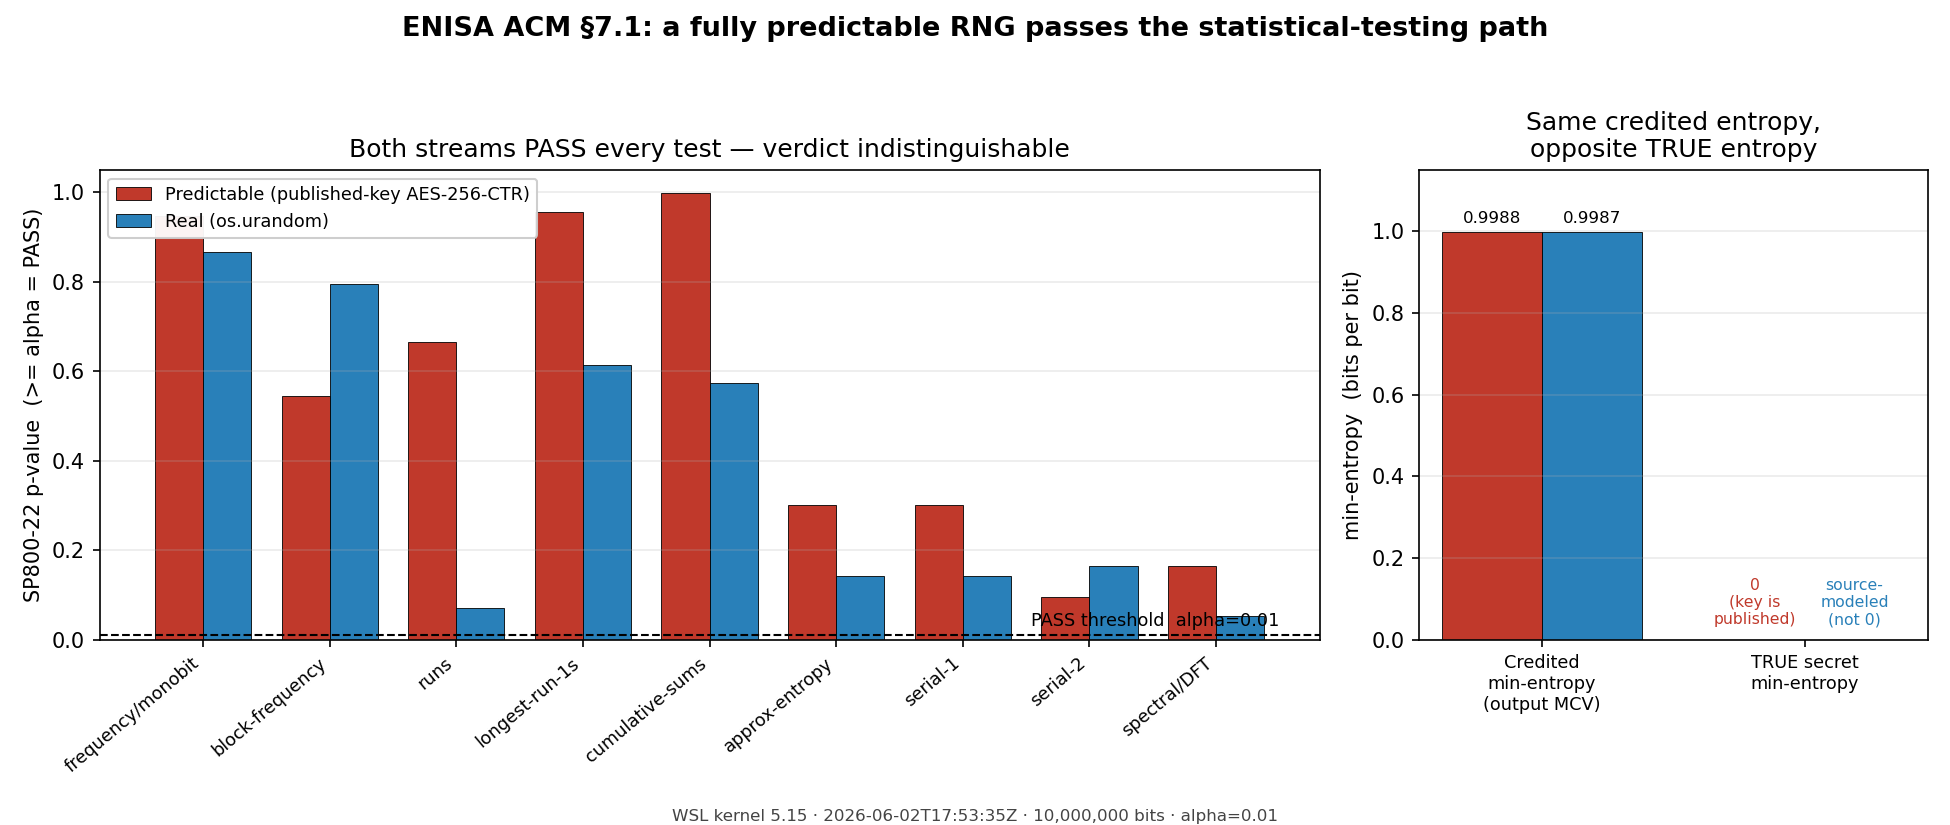
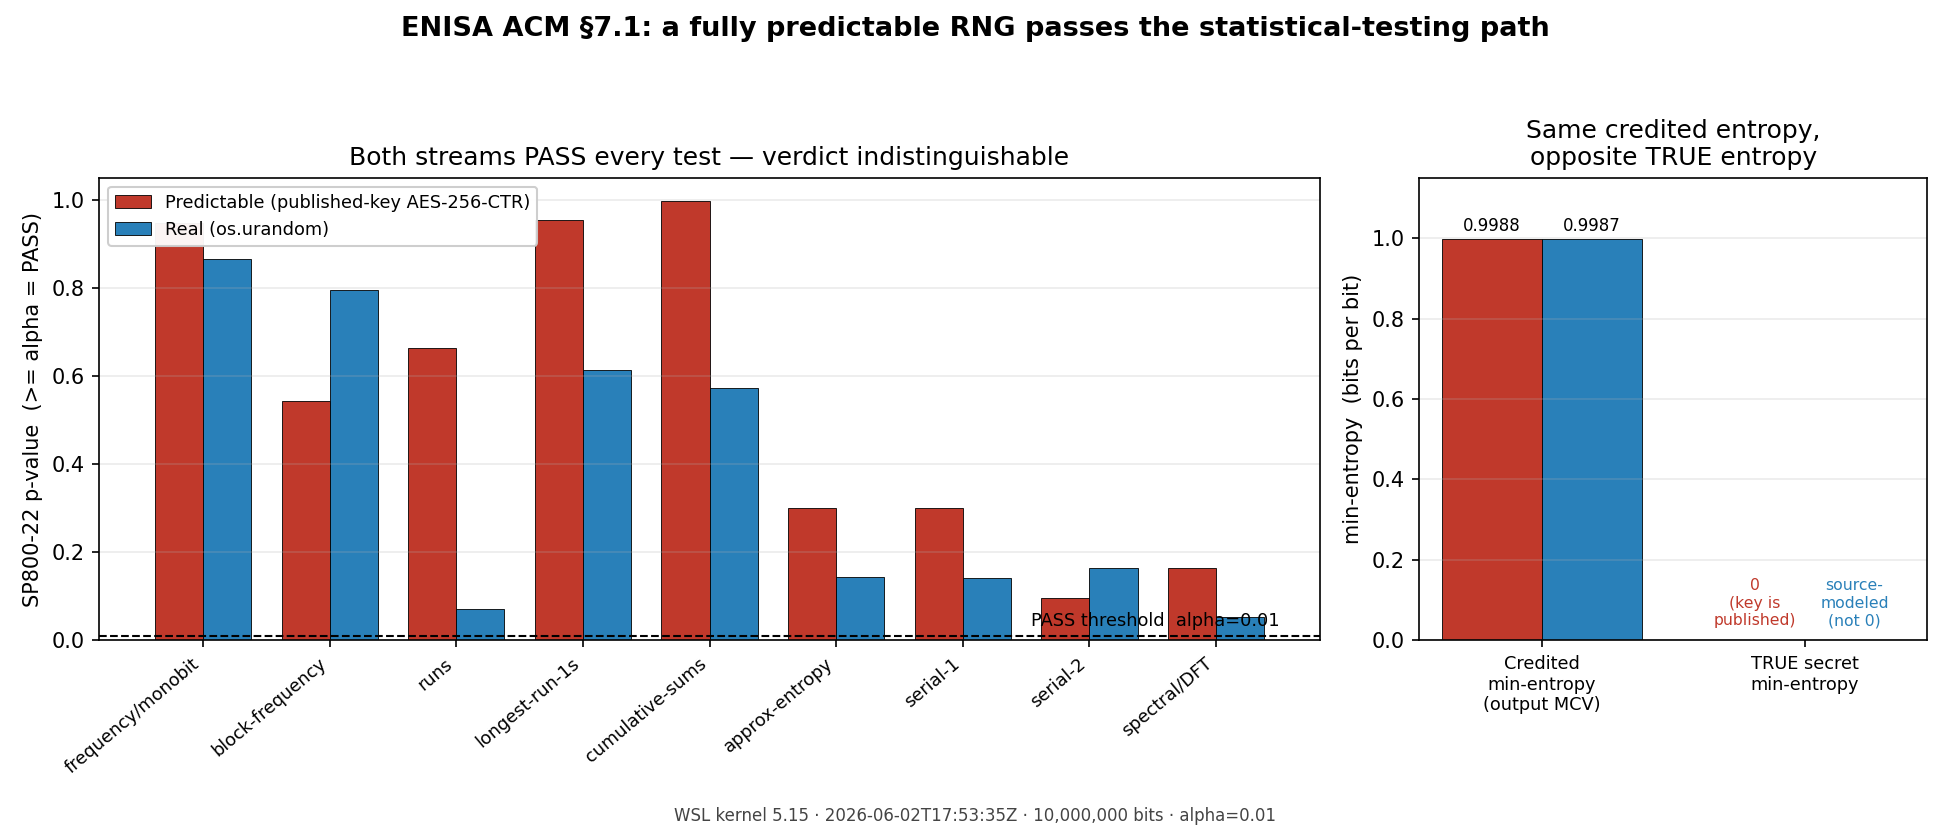
Set submitter name (Mark Tehrani); reconcile os.urandom MCV to committed-log value 0.9983 across prose/table/figure/diagram

diff --git a/critique/make_diagram.py b/critique/make_diagram.py
@@ -33,7 +33,7 @@ SP80022 = [
 # output-based MCV min-entropy (bits per bit) and TRUE secret min-entropy
 MINENT = {
     "predictable": {"mcv_per_bit": 0.9988, "true_secret_per_bit": 0.0},
-    "real":        {"mcv_per_bit": 0.9987, "true_secret_per_bit": None},  # None = source-modeled / unknown
+    "real":        {"mcv_per_bit": 0.9983, "true_secret_per_bit": None},  # None = source-modeled / unknown
 }
 ALPHA = 0.01
 RUN_LABEL = "WSL kernel 5.15 · 2026-06-02T17:53:35Z · 10,000,000 bits · alpha=0.01"

diff --git a/critique/SECTION_7.1_CRITIQUE.md b/critique/SECTION_7.1_CRITIQUE.md
@@ -56,14 +56,14 @@ Measured on 10,000,000 bits (α = 0.01). **Raw evidence logs are committed under
 | SP800-22 approximate-entropy | PASS (p=0.2999) | PASS (p=0.1423) |
 | SP800-22 serial (1,2) | PASS (0.2999, 0.0960) | PASS (0.1421, 0.1648) |
 | SP800-22 spectral/DFT | PASS (p=0.1645) | PASS (p=0.0533) |
-| output-MCV min-entropy (bits/bit) | 0.9988 | 0.9987 |
+| output-MCV min-entropy (bits/bit) | 0.9988 | 0.9983 |
 | **TRUE secret min-entropy** | **0 (key published)** | source-modeled (≠0) |
 
 *Data from the real WSL run of 2026-06-02T17:53:35Z (kernel 5.15, Python 3.12.3), committed under `critique/evidence/`. The predictable column is deterministic and reproduces exactly on any machine; the os.urandom column is from that run and differs on every run by nature.*
 
 ![Section 7.1 demonstration](section7_1_demo.png)
 
-*Figure: both streams clear the α=0.01 PASS line on every test (left); the predictable stream's credited min-entropy (0.9988) is indistinguishable from the real source's (0.9987), yet its TRUE secret min-entropy is 0 (right). Regenerate with `python3 make_diagram.py` (or `--self-run` to recompute from freshly generated streams).*
+*Figure: both streams clear the α=0.01 PASS line on every test (left); the predictable stream's credited min-entropy (0.9988) is indistinguishable from the real source's (0.9983), yet its TRUE secret min-entropy is 0 (right). Regenerate with `python3 make_diagram.py` (or `--self-run` to recompute from freshly generated streams).*
 
 **Identical verdict.** The predictable stream is regenerable from the public key printed in `predict_streamB_demo.py`. (`battery.py` ships an **8-test subset** of NIST SP800-22, sufficient to demonstrate the effect; the full 15-test NIST STS is expected to give the same verdict, and the independently published AIS 31 v3.0 Tirn result at `github.com/owlmt/ais31-full-evaluation` confirms the predictor-based tests — MultiMMC, LZ78Y — also pass on this construction.)
 
@@ -71,7 +71,7 @@ Measured on 10,000,000 bits (α = 0.01). **Raw evidence logs are committed under
 
 ENISA states numeric randomness thresholds — DRBG seed min-entropy ≥125 bits (Note 68), ≥188 bits in quantum contexts (Note 69), CTR_DRBG key ≥192 bits (Note 71), symmetric keys ≥192 (Notes 3/19), hash output ≥384 (Note 4), MAC keys ≥192 (Note 19). These split into two kinds, and the predictable stream defeats **both**:
 
-- **Entropy thresholds (seed ≥125 / ≥188).** Min-entropy can only be established by modeling the *raw noise source* (SP 800-90B) — never by tests on conditioned output. But §7.1 sanctions statistical testing of the output as an assessment approach, and an evaluator who follows it (or who runs an SP 800-90B estimator on the *output* rather than the raw source) gets a near-maximal estimate. Measured with the SP 800-90B 6.3.1 most-common-value estimator on the **output**: the published-key fake scores **0.9988 bits/bit** — statistically indistinguishable from `os.urandom` at 0.9985 — so a 256-bit draw is **credited ≈256 bits, clearing the ≥188-bit quantum bar**, while its **true secret min-entropy is 0** (the key is published). The threshold is *falsely credited*, not met.
+- **Entropy thresholds (seed ≥125 / ≥188).** Min-entropy can only be established by modeling the *raw noise source* (SP 800-90B) — never by tests on conditioned output. But §7.1 sanctions statistical testing of the output as an assessment approach, and an evaluator who follows it (or who runs an SP 800-90B estimator on the *output* rather than the raw source) gets a near-maximal estimate. Measured with the SP 800-90B 6.3.1 most-common-value estimator on the **output**: the published-key fake scores **0.9988 bits/bit** — statistically indistinguishable from `os.urandom` at 0.9983 — so a 256-bit draw is **credited ≈256 bits, clearing the ≥188-bit quantum bar**, while its **true secret min-entropy is 0** (the key is published). The threshold is *falsely credited*, not met.
 - **Size thresholds (key ≥192, hash ≥384).** These are bit-length checks. AES-256 has a 256-bit key whether or not that key is secret, so the predictable construction **meets them by construction**. A key generated from the fake has the requested *size* but inherits **0 secret entropy**.
 
 `entropy_claim_assessment.py` in this repository prints this contrast for any stream. The result: under ENISA's §7.1 statistical-testing path, **a fully predictable RNG would be assessed as clearing the quantitative randomness bar** — the entropy thresholds by *false crediting*, the size thresholds *by construction*. We never assert the fake "has" 188 bits of entropy; the precise statement is that ENISA's sanctioned assessment path would certify a zero-entropy source as meeting them. §7.1 itself concedes statistical tests give no distribution assurance — the point is that the structure still presents statistical testing as a source-quality *assessment* approach, which is what this counterexample targets.
@@ -91,7 +91,7 @@ Concretely, the §7.1 first bullet should state that statistical tests serve onl
 
 The following is drafted to the elements required by Appendix C of the document.
 
-- **Contact of the submitter:** *[your name, affiliation, email]* (CyberSeQ).
+- **Contact of the submitter:** Mark Tehrani, CyberSeQ (madjid-tehrani).
 - **Section / Quote:** §7.1 *True Random Source*, first bullet: *"Perform statistical tests on the output of the source… it does not provide any assurance on the distribution of the output of the random source… statistical tests are useful to detect unintentional failure of the random source."*
 - **Category:** Incorrect content.
 - **Update presentation (proposed new text):**